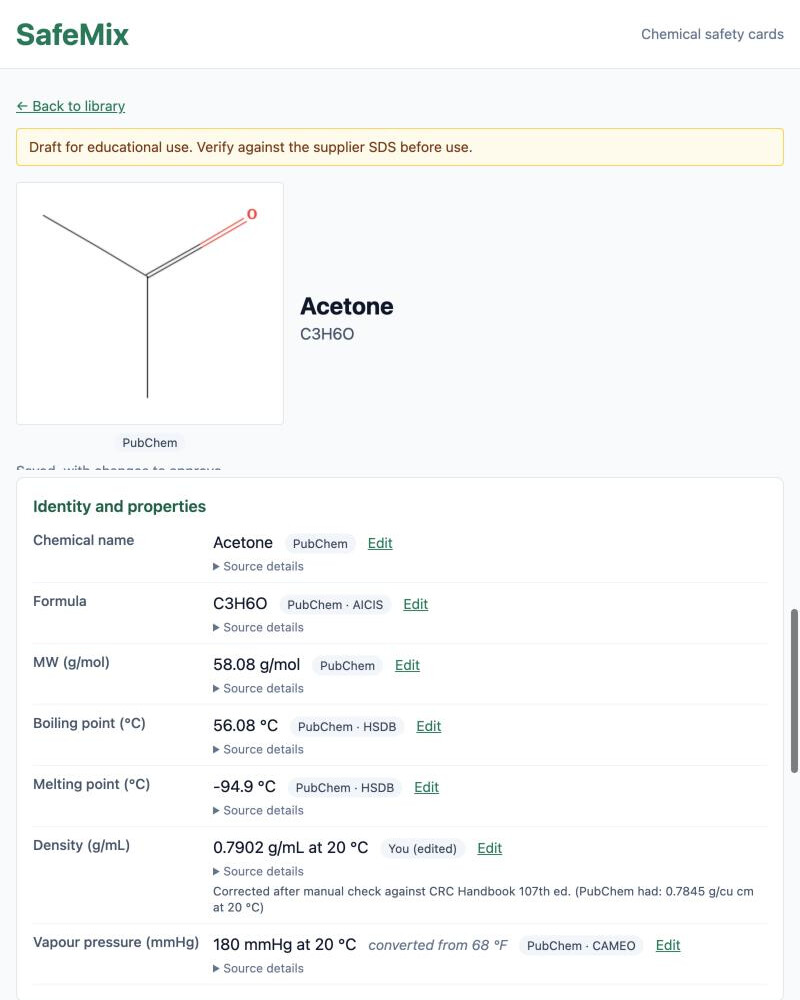
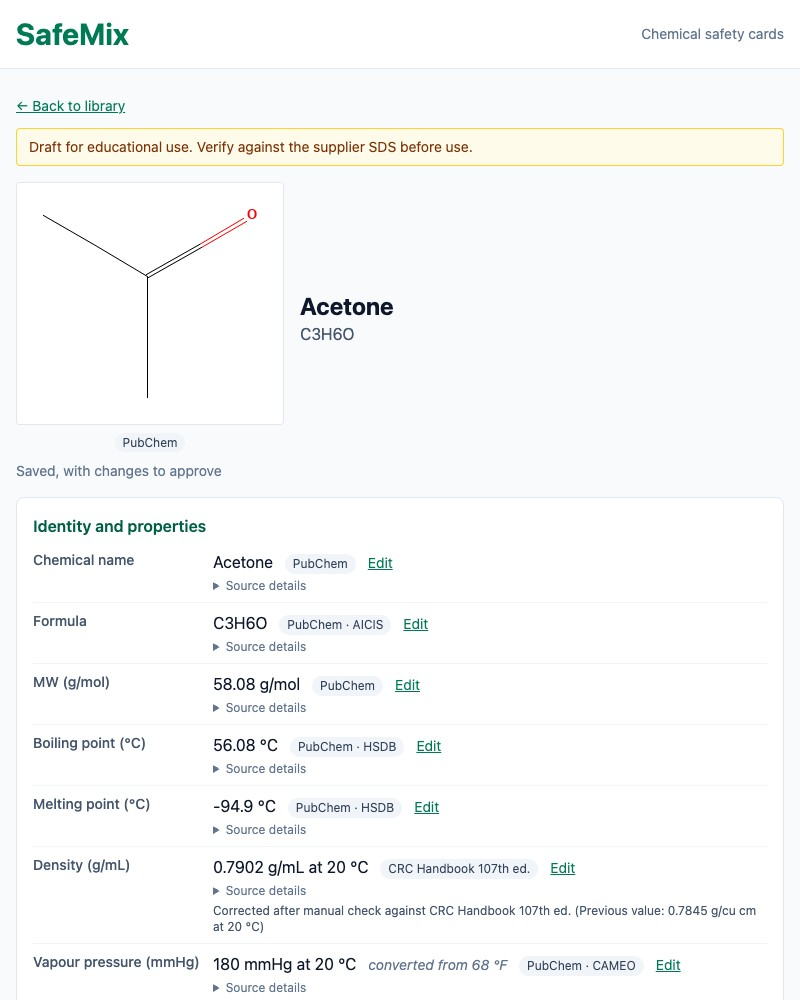
README: retake screenshots with the current labels
- Library, card and PDF images show the five demo cards; the table image
  adds iodoform so a GHS row is visible
- Table image description no longer says "cited values"
- PROGRESS: screenshot task done

diff --git a/PROGRESS.md b/PROGRESS.md
@@ -52,16 +52,16 @@ Last updated: 2026-11-26
   - "Source details" wraps long citations and links.
   - The experiment table keeps the chemical name column pinned while scrolling sideways. The table now uses separate borders (collapsed borders let scrolled text show beside the pinned cell).
   - 163 tests, type check, lint and build pass. Checked in headless Chrome: at 390 and 320 px, no text in the opened "Source details" is cut off on six cards, and the name column stays visible across the table scroll; desktop looks right. Not checked on a physical phone or in Safari.
+- **README screenshots retaken (2026-11-26).** Same file names and pixel sizes, from a new Chrome profile. Library, card and PDF images use only the five demo cards; the table image adds iodoform (live PubChem lookup) so a GHS row shows. Its waste suggestion was kept unconfirmed (†) in that test profile. For the table image only, the page width limit was lifted to keep the old framing.
 
 ## Next steps (pilot phase)
-1. **Retake the README screenshots** (`docs/library.jpg` predates the peroxide mark; check the others).
-2. **Try SafeMix on more real experiments** (Nitzan's choice of experiments, before any LinkedIn post; the post waits until then).
-3. **Export the Lab 1 PDF and compare** with the hand-filled prep report (dated 5/11/26). The "Lab 1 - Iodoform + alkyl halide tests" experiment (12 chemicals) was, as of 2026-11-17, only in the Claude app's built-in browser; rebuild it in Nitzan's own browser or use Export all / Import.
-4. *(Optional)* **Fill Lab 1 gaps from supplier SDSs:**
+1. **Try SafeMix on more real experiments** (Nitzan's choice of experiments, before any LinkedIn post; the post waits until then).
+2. **Export the Lab 1 PDF and compare** with the hand-filled prep report (dated 5/11/26). The "Lab 1 - Iodoform + alkyl halide tests" experiment (12 chemicals) was, as of 2026-11-17, only in the Claude app's built-in browser; rebuild it in Nitzan's own browser or use Export all / Import.
+3. *(Optional)* **Fill Lab 1 gaps from supplier SDSs:**
    - NFPA missing: KI, NaOCl, AgNO3, Cu, iodoform, 2-chlorobutane, tert-butyl chloride.
    - Exposure missing: KI, 2-chlorobutane, tert-butyl chloride. MP missing: 2-chlorobutane, tert-butyl chloride. VP missing: AgNO3.
    - Solution cards needed: NaOCl 5%, AgNO3 2% in ethanol, HNO3 5%. A solution looked up as the pure compound gets pure-compound data.
-5. README: add a demo GIF.
+4. README: add a demo GIF.
 
 ## Not verified
 - **Hydrogen peroxide concentration:** the demo values (BP 150.2 °C, NFPA 3/3/OX) look like concentrated peroxide. Which concentration they belong to, and which the lab uses, is not verified.

diff --git a/README.md b/README.md
@@ -6,7 +6,7 @@ SafeMix is a browser app that helps you prepare for a chemistry lab. You search 
 
 **Live demo:** https://shmuelinitzan-cmd.github.io/safemix/ (no sign-up; 5 demo chemicals included)
 
-![Experiment table with cited values and GHS shown where no NFPA rating exists](docs/experiment-table.jpg)
+![Experiment table with GHS shown where no NFPA rating exists, and unverified items marked](docs/experiment-table.jpg)
 
 ## Why
 
